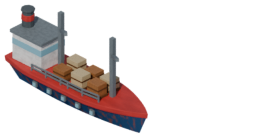
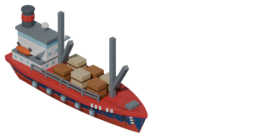
Put the nine accepted ships in the game and close the fleet family
Bruno accepted candidate six (decision 073): the cargo lifeboat sits on
a boat deck of a two-tier superstructure, beside a blank wall, and no
ship carries a flag. The position was asked before any render, with an
ASCII preview per option -- decision 072 had tried six positions by eye.

The nine hull PNGs and their atlas entries are regenerated; no .import
changed. Measured: six suites green; D29 stays under the 62% ceiling on
all eight measured hulls (trawler 50->46%, stern trawler 53->55%,
ocean-going bulk 50->53% -- the flag flew aft and widened the drawing);
.pck +2,608 bytes (13,505,736 -> 13,508,344, +0.02% of the .pck); the
capture battery reads COBERTURA OK and the fleet sheet shows all nine.

Docs: decision 073, 072 marked closed, state and plan updated, the arte
skill records that the question alone came back after "E agora?" and
that a piece's position is asked before rendering; conferir_casco notes
that a piece buried inside the hull does not read as "outside". Next
conversation brief added. DOCS OK.

Claude-Session: https://claude.ai/code/session_01PDfCjAsBY1cvoLLBYke7Ad

diff --git a/tools/conferir_casco.py b/tools/conferir_casco.py
@@ -12,8 +12,12 @@ peça, mede o quanto cada vértice passa da meia-boca do casco no `x` dele.
 Imprime, por prop, as peças que passam mais de 0,02 unidades, da pior para a
 melhor. É RELATÓRIO, não portão: há peças que saem de propósito — os pneus
 de defensa pendurados no costado, o pau-de-carga da traineira a içar por cima
-da amurada, a bandeira a voar —, e quem decide se uma saída é defeito é quem
-olha para ela.
+da amurada —, e quem decide se uma saída é defeito é quem olha para ela.
+(A bandeira a voar também saía, até sair de todos os navios — `073`.)
+
+⚠ E DENTRO DO CASCO NÃO É «FORA». Uma peça que nasce enterrada no casco
+passa aqui calada: a baleeira da `073` nasceu a 0,46 de altura, dentro dele,
+por um nome de variável reusado, e quem a apanhou foi a foto.
 
 ⚠ NASCEU PORQUE O OLHO NÃO CHEGOU (`docs/decisoes/072`). O Bruno disse três
 vezes «partes do navio saindo do casco», e a cada volta a correção à vista

diff --git a/docs/ESTADO_DO_PROJETO.md b/docs/ESTADO_DO_PROJETO.md
@@ -4,7 +4,7 @@
 > deste projeto, e a única que nenhum teste protege — se envelhecer, envelhece
 > calada.
 >
-> **Última atualização:** 28/09/2026 — os cargueiros em curso (`072`)
+> **Última atualização:** 28/09/2026 — a frota no jogo (`073`)
 >
 > **A tabela das quatro camadas está no `CLAUDE.md`, que carrega sozinho** —
 > não se repete aqui. Esta é a segunda; o que vem a seguir está na §7 de
@@ -113,7 +113,7 @@ itens param à espera do Bruno. Aqui fica só a posição.
 
 | Fechado | O que ficou, medido |
 |---|---|
-| **Frente 4 do A5 — escala, camiões e pesca** (27/09, `069`–`071`) | A pessoa a 1,5× o real; **os 32 camiões** das duas transportadoras, pela vez de cada uma; **os 3 barcos de pesca detalhados** — defensas, nome, bandeira, rede e saco; **os 6 cargueiros em curso** (`072`), no gerador e fora do jogo. `.pck` +0,85% |
+| **Frente 4 do A5 — escala, camiões e frota** (27–28/09, `069`–`073`) | A pessoa a 1,5× o real; **os 32 camiões** das duas transportadoras, pela vez de cada uma; **os 9 cascos detalhados** — na pesca defensas, nome, rede e saco; nos cargueiros âncora, calado, radar e a baleeira no convés de embarcações; bandeira em nenhum. `.pck` +0,85% |
 | **Frente 6 do A5 — a prancha e a escala** (27/09, `068`) | **Aceite.** A `prancha_prop.gd` (candidata contra o prop do jogo) e a `escala_props.gd` (todos a 1:1, com trabalhador, pedestre e carro de régua) |
 | **Frente 3 do A5 — as quatro famílias aceites** (25–27/09, `062`–`067`) | O cartão e o HUD (**F14**, **F15**, `SAVE_VERSION` 9); tela inicial, três espaços de save, pausa curta, Ajustes e o celular (**F16**); o **caderno** (**D37**) e a **conversa no celular**, cada voz no seu balão (**F17**, **D38**). A foto do porto antigo, o fundo e o logotipo são do Bruno (`art_lab/diario/`, `art_lab/tela_inicial/`) |
 
@@ -130,7 +130,7 @@ histórico em `HISTORICO.md`.
 |---|---|---|
 | **A1** | Jogado e triado; fica **a ordem do resto** | Ver abaixo |
 | **A4** | ⚠ **Três leituras (13, 19 e 23/09)**, notas aplicadas (`048`): resta ler em voz alta as falas reescritas e os textos do caderno (`067`) |
-| **A5** | Julgado (31 «Não»); **frente 1 feita**; na **2** (retratos) os três que falam estão no jogo no kit afinado, cada um com a sua cabeça, em Standard (`055`, `056`), e o trabalhador em busto com os seus trinta rostos (`058`, `059`). A **3** e a **6** fecharam (`066`–`068`); a **4** fez a escala, os camiões e a pesca (`069`–`071`). O material do ChatGPT vive em `art_lab/` (porta: o `README.md` de lá) | Na 4 fecham os 6 cargueiros (a baleeira, sem bandeira em navio nenhum, `072`); ruína e obras e animação são dele. O galpão V3 que ele aprovou só existe lá (`art/f01-galpao`): **recuperar ou refazer**. O Codex entra por `AGENTS.md` |
+| **A5** | Julgado (31 «Não»); **frente 1 feita**; na **2** (retratos) os três que falam estão no jogo no kit afinado, cada um com a sua cabeça, em Standard (`055`, `056`), e o trabalhador em busto com os seus trinta rostos (`058`, `059`). A **3** e a **6** fecharam (`066`–`068`); a **4** fez a escala, os camiões e a frota (`069`–`073`). O material do ChatGPT vive em `art_lab/` (porta: o `README.md` de lá) | Na 4 a frota fechou (`073`); ruína e obras e animação são dele. O galpão V3 que ele aprovou só existe lá (`art/f01-galpao`): **recuperar ou refazer**. O Codex entra por `AGENTS.md` |
 | **A6** | **Ouvir** — a metade de máquina fechou (`040`) | Este contêiner não tem placa de som. O protocolo está em `docs/PROTOCOLO_DE_ESCUTA.md`: telefone-alvo, volume fixo anotado, isolado E em contexto, três perguntas acionáveis. ⚠ Comece pela §4 — **o aviso tem 99% da energia abaixo de 500 Hz** |
 
 ### Ainda por fazer, medido

diff --git a/docs/decisoes/073-a-frota-no-jogo.md b/docs/decisoes/073-a-frota-no-jogo.md
@@ -1,0 +1,61 @@
+# 073 — A frota no jogo: o convés de embarcações e nenhuma bandeira
+
+**28/09/2026 · frente 4 do A5, família frota** — fecha a `072`. As duas ordens
+do Bruno ao fechá-la eram **a baleeira num lugar mais realista** e **a bandeira
+do Brasil fora de todos os navios**, os de pesca aceites incluídos. A sexta
+candidata foi **aceite**, e os nove cascos estão no jogo.
+
+## O que o Bruno escolheu
+
+| Pergunta | Resposta |
+|---|---|
+| Onde vai a baleeira (perguntado ANTES de desenhar, com prévia em ASCII de cada opção) | **Convés de embarcações** — a recomendada, contra a queda livre na popa e «as duas, para comparar» |
+| 6.ª candidata | **Aceito** |
+
+A baleeira levou seis posições na `072`, todas escolhidas a olho e recusadas
+uma a uma. Aqui a posição foi pergunta antes do render, e a primeira candidata
+foi aceite.
+
+## O que mudou no gerador
+
+- **A superestrutura dos cargueiros tem dois níveis** (`superestrutura()` e
+  `conves_de_embarcacoes()` em `gerar_props_iso.py`): em baixo um convés de
+  acomodação largo (`NIVEL_BAIXO` 0,20); em cima a ponte, mais estreita, com
+  `CONVES_BAL` 0,18 de cada bordo. O teto do nível de baixo é o **convés de
+  embarcações**. A caixa envolvente não mudou: o topo, o comprimento e a boca
+  são os de antes, e a chaminé, o radar e o `topo_sup` ficam onde estavam.
+- **A baleeira** fica nesse convés, pelo bordo que se vê e a ré, com a borda
+  0,03 para fora do nível de baixo, que é onde uma baleeira de turco fica
+  estivada. Leva **dois turcos inclinados** (os montantes de pé foram a «cara»
+  da `072`).
+- **A parede ao lado dela é cega.** A fita de vidro da ponte subiu para o alto
+  do nível de cima (`FITA_ALT` 0,12). As janelas desse nível ficam só à
+  frente da baleeira, e as do nível de baixo por baixo da borda do convés. As
+  asas do passadiço ficam à altura do pé da fita.
+- **A bandeira saiu dos nove navios**, e com ela o `pavilhao()`, o parâmetro
+  `bandeira` do `marcas_de_casco()`, as três cores da paleta e o mastro de
+  sinais dos cargueiros.
+
+## Como se mediu
+
+- `tools/conferir_casco.py`: os seis cargueiros dão **«tudo dentro»**. Nos de
+  pesca só aparece o que sai de propósito (pneus, motor de popa, portas de
+  arrasto, o pau da traineira), e a bandeira já não consta.
+- **D29**, antes → depois: traineira 50% → 46%, arrasteiro 53% → 55%, granel de
+  longo curso 50% → 53%; os outros cinco a 53% nos dois lados (teto 62%). Os de
+  pesca só perderam a bandeira. Ela voava para ré e alargava o desenho, e a
+  régua lê a linha de fundo em proporção dele.
+- `.pck` **+2.608 bytes** (13.505.736 → 13.508.344, +0,02% do `.pck`).
+- As seis suítes verdes; a bateria de capturas e a folha da frota
+  refotografadas.
+
+## O que ficou por dizer
+
+**A 1:1, os turcos leem como duas marcas escuras nas pontas da baleeira**, e
+não claramente como turcos. Disse-o na entrega, e o Bruno aceitou assim.
+
+**A baleeira nasceu dentro do casco na primeira foto, sem erro nenhum.** A
+altura do convés vivia em `zc`, e o laço das marcas de calado, mais abaixo na
+mesma função, reusava o nome e deixava-o em 0,46. Quem o apanhou foi a foto
+(zero pixels laranja), e não o `conferir_casco.py`: dentro do casco não é
+«fora». O comentário vive em `marcas_de_carga()`.

diff --git a/docs/arquivo/BRIEFING_PROXIMA_CONVERSA_2026-09-28b.md b/docs/arquivo/BRIEFING_PROXIMA_CONVERSA_2026-09-28b.md
@@ -1,0 +1,59 @@
+# BR Port — prompt para a próxima conversa (depois da frota)
+
+**Como usar:** abra uma conversa nova no repositório `Brunoleon98/br-port` e
+cole este texto. Não é preciso anexar o histórico da conversa anterior.
+
+**Modelo: Opus no começo.** A conversa abre por uma escolha do Bruno (que
+família da frente 4, ou que item da fila) e pelo escopo dela. A receita que
+vier depois desce para **Sonnet** (`CLAUDE.md`, «Qual MODELO faz o quê»).
+
+**Situação:** substitui o de 28/09 (sem letra). A sessão de 28/09 trabalhou na
+branch `claude/pensive-hypatia-1cdznc`, a partir da `main` com o PR #96
+fundido, e **fechou a família frota da frente 4** (`073`):
+
+1. **A baleeira dos 6 cargueiros no convés de embarcações.** A superestrutura
+   tem dois níveis; a baleeira fica no teto do de baixo, pelo bordo que se vê,
+   com dois turcos inclinados e uma parede cega ao lado. Foi perguntado antes
+   de desenhar, e a sexta candidata foi aceite.
+2. **A bandeira saiu dos nove navios**, os de pesca incluídos. Com ela saíram
+   o `pavilhao()` e o mastro de sinais.
+3. **Os nove estão no jogo** (`art/props` e o atlas): seis suítes verdes, D29
+   abaixo do teto nos oito medidos, `.pck` +2.608 bytes, bateria de capturas
+   com `COBERTURA OK` e a folha da frota refotografada.
+
+O Bruno não pediu PR: o trabalho só existe na branch.
+
+---
+
+## 1. Comece pelo estado real
+
+- Confira no GitHub se a `claude/pensive-hypatia-1cdznc` virou PR e se foi
+  fundida; se não foi, a conversa seguinte parte dela (um ref de cada vez no
+  `git fetch`, `CLAUDE.md`).
+- Veja os PRs abertos do Codex antes de mexer num arquivo de alto conflito
+  (`AGENTS.md`).
+
+## 2. O que vem a seguir é escolha do Bruno
+
+O resto da frente 4 é **ruína e obras** e **animação** (plano v3, §7, item 4
+e a secção «A FRENTE 4 ABRIU»). Pergunte qual, com opções e a recomendação
+primeiro, e depois o ESCOPO da família antes de desenhar (`/arte`, §8).
+
+## 3. O que está com o Bruno
+
+A foto do porto antigo e o fundo e o logotipo da tela inicial
+(`art_lab/diario/BRIEFING.md`, `art_lab/tela_inicial/BRIEFING.md`); a leitura
+dos textos novos (A4) e ouvir os sons (A6, `docs/PROTOCOLO_DE_ESCUTA.md`).
+
+## 4. Lições desta sessão — onde vivem
+
+- ⚠ Onde uma peça vai pergunta-se ANTES do render, com uma prévia em ASCII de
+  cada saída: a baleeira levou seis posições a olho na `072` e uma pergunta
+  aqui (`/arte`, §8; `073`).
+- ⚠ A legenda com a pergunta não o fez responder em texto: «E agora?» é o
+  mesmo sinal que «Mande pergunta», e a pergunta sozinha voltou (`/arte`, §8).
+- ⚠ Dentro do casco não é «fora»: o conferidor não apanha uma peça enterrada,
+  e quem a apanhou foi a foto (`tools/conferir_casco.py`; `073`).
+- ⚠ Um nome reusado por um laço mais abaixo na mesma função pôs a baleeira a
+  0,46, dentro do casco, sem erro (`marcas_de_carga()` no
+  `tools/gerar_props_iso.py`; `073`).

diff --git a/docs/arquivo/README.md b/docs/arquivo/README.md
@@ -93,6 +93,7 @@ aqui.
 | `BRIEFING_PROXIMA_CONVERSA_2026-09-27c.md` | 27/09 | Substitui o `27b`: a frente 6 aceite e a frente 4 aberta pela família escala e camiões (`069`) — a pessoa a 1,5× o real (`REGUA_DA_PESSOA` 0,48), a fauna como estava e o D25 como piso, o carro e o pedestre na página de escala, e as duas transportadoras por serviço aceites na quarta candidata, ainda fora do jogo. Branch `claude/happy-maxwell-iajyvi`, PR #94. A seguir: os 32 camiões no jogo. |
 | `BRIEFING_PROXIMA_CONVERSA_2026-09-27d.md` | 27/09 | Substitui o `27c`: as duas transportadoras no jogo (`070`) — os 32 camiões, `CAMINHOES` por empresa e a vez de cada uma por serviço, sem sorteio; o D35 com o chassi do bicudo, todos os motivos e meia hora de passagem, e a guarda das 32 na rua. Folhas: uma por transportadora e a quarta dos props. Branch `claude/gallant-babbage-6jnqiy`, PR #95. A próxima escolha é do Bruno. |
 | `BRIEFING_PROXIMA_CONVERSA_2026-09-28.md` | 28/09 | Substitui o `27d`: a frota (`071`, `072`) — os 3 barcos de pesca detalhados e no jogo, e os 6 cargueiros em curso (a quinta candidata no gerador, fora do jogo), com o `tools/conferir_casco.py`. Branch `claude/affectionate-gates-lyhx2m`, PR #96. A seguir: a baleeira num sítio realista e a bandeira fora de todos os navios. |
+| `BRIEFING_PROXIMA_CONVERSA_2026-09-28b.md` | 28/09 | Substitui o de 28/09 sem letra: a frota fechada e no jogo (`073`) — a baleeira dos cargueiros no convés de embarcações, numa superestrutura de dois níveis, perguntada antes do render e aceite na sexta candidata; a bandeira fora dos nove navios. Branch `claude/pensive-hypatia-1cdznc`, sem PR. A próxima escolha é do Bruno: ruína e obras, ou animação. |
 | `AUDITORIA_ARTE_CHATGPT_2026-09-23.md` | 23/09 | O pacote de vegetação F1 do ChatGPT auditado contra a `main`: feito sobre o PR #58 num checkout que o GitHub não conhece, com decisões 034–036 que colidem em número; a V5 do arbusto aplica e passa o teste de design sem ele a ver, e em runtime são cinco cópias de 20 px, duas meio tapadas por prédios. Tabela por asset, e o que o plano dele afirma que o repositório desmente. No mesmo dia, a pedido do Bruno, o material passou a viver em `art_lab/` para as duas frentes trabalharem juntas |
 | `BLOCO5_PROMPTS_BLENDER_RICO.md` | 29/08 | Os prompts do enriquecimento dos props em Blender |
 | `BRP_IMPLEMENTATION_NOTES.md` | 31/08 | O que foi e o que NÃO foi feito no pipeline Blender → Godot |

diff --git a/.claude/skills/arte/SKILL.md b/.claude/skills/arte/SKILL.md
@@ -350,6 +350,12 @@ Arlindo seis, e o que as encurtou foi a FORMA da pergunta, não a arte.
   acabamento), com a recomendação primeiro: ele marcou as oito, e a
   candidata seguinte foi aceite. Quando a peça já vai no rumo certo, ofereça
   «Sugira você o que falta» ao lado de «Aceito».
+  ⚠ **E A LEGENDA COM A PERGUNTA NÃO O FEZ RESPONDER EM TEXTO** (28/09,
+  `073`): a prancha saiu com «Aceito / Ajustar / Sugira você» escrito na
+  legenda e no fim do turno, e a mensagem seguinte foi «E agora?». A
+  pergunta sozinha, logo a seguir, voltou «Aceito» (**16 de 16** somando as
+  sessões). A legenda não substitui a pergunta; «E agora?» é o mesmo sinal
+  que «Mande pergunta».
 - **Folha que recorta pode fazer parecer cortado o que no jogo sai inteiro.**
   A janela da folha ampliada estava escrita à mão na cabeça de hoje e cortava
   14 px do crespo; ele perguntou «vão aparecer cortadas?». A janela sai do
@@ -373,6 +379,12 @@ Arlindo seis, e o que as encurtou foi a FORMA da pergunta, não a arte.
   peças, que categorias, que marcas as distinguem — com opções e a
   recomendação primeiro. Nas variações do trabalhador ele respondeu tudo numa
   volta (2 sexos × 3 idades × 5 cores do IBGE; as marcas de cada eixo).
+- **E ONDE UMA PEÇA VAI também se pergunta antes do render** (`073`). Na
+  `072` a baleeira levou seis posições escolhidas a olho, e ele recusou as
+  seis. Na conversa seguinte a posição foi uma pergunta com duas saídas
+  realistas e uma PRÉVIA EM ASCII de cada uma (vista de lado, a peça e o
+  que a rodeia). Ele escolheu a recomendada, e a primeira candidata foi
+  aceite.
 
 ---
 

diff --git a/docs/design/BR_Port_Plano_v3_Claude_Code.md b/docs/design/BR_Port_Plano_v3_Claude_Code.md
@@ -1017,15 +1017,16 @@ camiões** (`069`):
 - **A frota, pelos 3 de pesca** (`071`): escopo respondido antes do desenho —
   detalhe nos 9 cascos, a começar pela pesca, com as quatro marcas (defensas e
   amarração, nome e bandeira, equipamento, desgaste). **Aceites na quinta
-  candidata**: pneus em anel, nome na proa, bandeira num pau na popa, o
-  escorrido no material da faixa; a traineira com janelas, rede cinzenta em
+  candidata**: pneus em anel, nome na proa, bandeira num pau na popa (saiu
+  na `073`), o escorrido no material da faixa; a traineira com janelas, rede cinzenta em
   malha e cortiças; o arrasteiro com portas de arrasto, a rede no tambor e o
   saco de losangos pendurado do pórtico.
-- **Os 6 cargueiros, em curso** (`072`): cinco candidatas, a quinta no gerador
-  e nenhuma no jogo. Falta o sítio da baleeira (na parede fica sobre janelas,
-  no teto «não é realista») e **tirar a bandeira de todos os navios**, os de
-  pesca aceites incluídos — as duas ordens do Bruno ao fechar. O resto da 4 —
-  ruína e obras, animação — é escolha dele.
+- **Os 6 cargueiros** (`072`, `073`): **aceites na sexta candidata** e no
+  jogo, com os três de pesca. A superestrutura tem dois níveis, e a baleeira
+  fica no convés de embarcações, ao lado de uma parede cega. Nenhum dos nove
+  navios leva bandeira. A posição da baleeira foi perguntada ANTES do render,
+  depois de seis recusadas a olho na `072`. **A família frota fechou**; o
+  resto da 4 — ruína e obras, animação — é escolha dele.
 
 ---
 

diff --git a/docs/decisoes/072-os-cargueiros-em-curso.md b/docs/decisoes/072-os-cargueiros-em-curso.md
@@ -1,5 +1,8 @@
 # 072 — A frota, segunda passagem: os seis cargueiros (em curso)
 
+> **Fechada pela `073`** (28/09): a baleeira foi para o convés de
+> embarcações, a bandeira saiu dos nove navios, e os nove estão no jogo.
+
 **27–28/09/2026 · frente 4 do A5, família frota** — depois dos três de pesca
 (`071`), o Bruno escolheu **os 6 cargueiros juntos** (médio e longo curso, cada
 um em carga geral, contêiner e granel). A passagem ficou em curso: cinco
